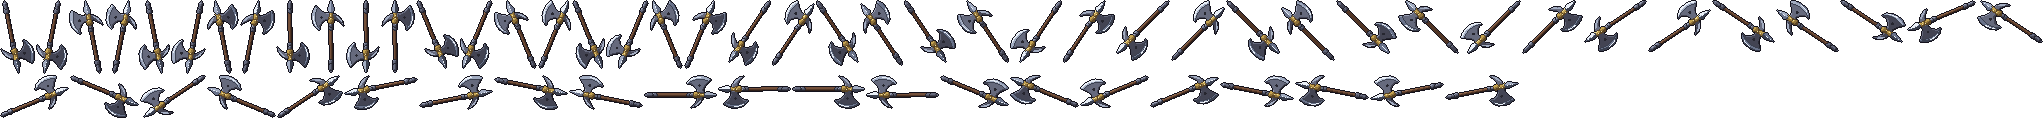
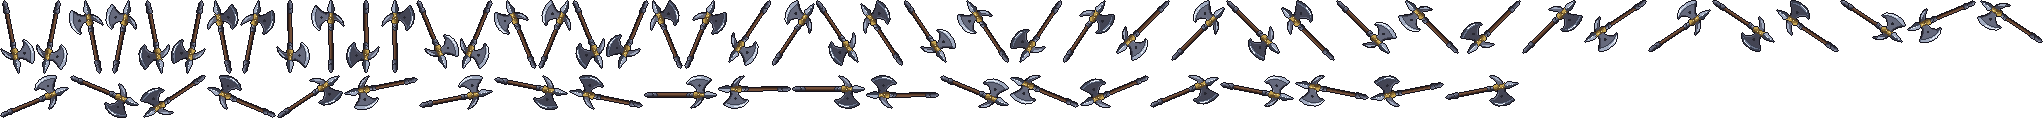
style: 手に持つ武器の光を武器に固定し、向きが変わっても陰影を揃える
Claude-Session: https://claude.ai/code/session_01HwQhmwscr3qGgsBCugZiZh

diff --git a/docs/ideas/player-sprites.md b/docs/ideas/player-sprites.md
@@ -14,7 +14,7 @@
 
 - 絵は生成スクリプトで PNG に焼く（`scripts/actor/`。エフェクトの `scripts/fx/` と同じ流儀で、色は段ではなくそのまま持つ）
 - **体**（`sheets/body<ジョブ>.mjs`）: 人型の骨組み（`rig.mjs`）の点を受け取り、部品を塗る。時間割は全ジョブ共通（待機 8・歩き 8・ダッシュ 2・構え・振り抜き・被弾）。肩・頭の位置を位置の印で渡す
-- **武器**（`sheets/wpn<武器種>.mjs`）: 握りを原点、+x を切っ先に描き、32 方向を描き直す（回転でドットを崩さない）。片刃は刃を反対側へ向けた写し（`.heldM`）も持つ。両手持ちは添え手の位置 `meta.offGrip`
+- **武器**（`sheets/wpn<武器種>.mjs`）: 握りを原点、+x を切っ先に描き、32 方向を描き直す（回転でドットを崩さない）。光は武器に固定する（`localLight`。向き・写しが変わっても陰影の並びが同じで、振りの途中でコマごとに刃の明暗が入れ替わらない。体の光は画面に固定）。片刃は刃を反対側へ向けた写し（`.heldM`）も持つ。両手持ちは添え手の位置 `meta.offGrip`
 - **腕は体に描かない**。実行時に肩から手（武器の握り）まで 2 本の骨で引く（`render/playerRig.ts` の `elbowOf` / `armPixels`、色は体の `meta.arm`）。構え・振り・二刀・両手持ちを絵の枚数を増やさずに作れる
 - 組み立て（`renderer.ts` の `drawRiggedPlayer`）: 右向きの作業面に 後ろの武器 → 後ろの腕 → 体 → 前の武器 → 前の腕 の順で重ね、左向きなら絵ごと反転する。被弾の閃き・ダッシュの残像は作業面の白い写し
 - 構え（武器の絵の `meta.stance`。読むのは `playerRig.ts` の `stanceFromMeta`）: 武器種ごとの待機の向き・手の位置・持ち方（片手 / 両手 / 二刀）と体の構え、手にはめる（`worn`: 拳を描かず武器の絵が手になる）、構えたまま押す（`braced`: 大盾は振りの間も照準へ向ける）。武器を足す人が共有の表を触らずに済むよう、武器の絵のファイルが持つ。振りの向きは今までの `weaponPose` をそのまま使う

diff --git a/CHANGELOG.md b/CHANGELOG.md
@@ -69,7 +69,7 @@
 - **床のアイテム情報の表示 ON/OFF**: 設定の「アイテム情報」か T キー（キー設定で変更可）で、床の遺物・スキル石の性能ポップアップを出さないようにできる。拾う操作と注目の輪はそのまま
 
 ### 変更
-- **攻撃の動きを作り込み**: 振りの形ごとに体の 6 コマ（振り下ろし・斬り上げ・叩きつけ・突き・回転）を持ち、溜めで振りかぶり・踏み込んで伸び切り・振り抜いた後に残心で構え直す。武器は振りの頭で一気に走って腕を伸ばしきり、振りの先へ少し流れてから戻る。振りの間は武器の残像を薄く重ねる
+- **攻撃の動きを作り込み**: 振りの形ごとに体の 6 コマ（振り下ろし・斬り上げ・叩きつけ・突き・回転）を持ち、溜めで振りかぶり・踏み込んで伸び切り・振り抜いた後に残心で構え直す。武器は振りの頭で一気に走って腕を伸ばしきり、振りの先へ少し流れてから戻る。振りの間は武器の残像を薄く重ねる。手に持つ武器の光を武器に固定し、向きが変わっても陰影が揃う（振りの途中で刃の明暗がちらつかない）
 - **命中音を武器種ごとに作り分け**: 斬撃の武器は参考音に合わせた剣を基準に、刀は細く澄んで長く鳴る・大剣と斧は低く太い・鉈は肉厚で短い・大鎌は長く薙ぐ・双剣は 2 粒・爪は 3 粒の軽い斬撃・鎖鎌と輪刃・戦輪は金属がよく鳴る、のように性格を変えた。打撃・刺突・鞭打の武器も高さ・長さ・芯を武器ごとにずらした
 - **斬撃の音を参考音（docs/example/SE の「剣で斬る」）の特徴に合わせて作り直し**: 命中は低い芯 + 4〜8kHz 中心の「シャー」という余韻（中の重さで約 200ms）+ 余韻に残る刃鳴りに、振りの風切りは中低域（200〜1kHz）が膨らむ「ヒュッ」に
 - **斬撃の命中音が鈍く聞こえていたのを修正**: 高域の「シャッ」「ザ」を大きくし、刃と鞭の命中では低いドンを重ねない（ドンに埋もれて斬った音に聞こえなかった）
